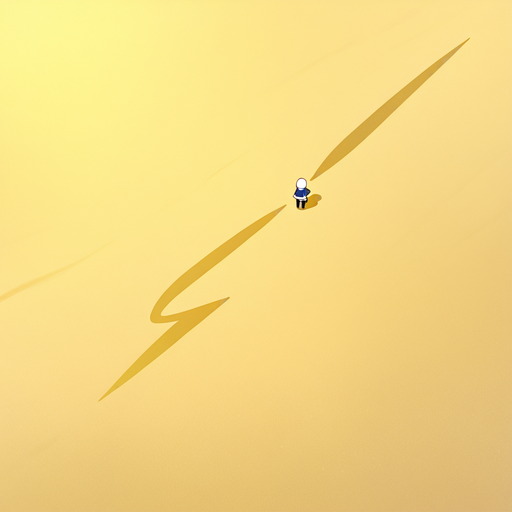
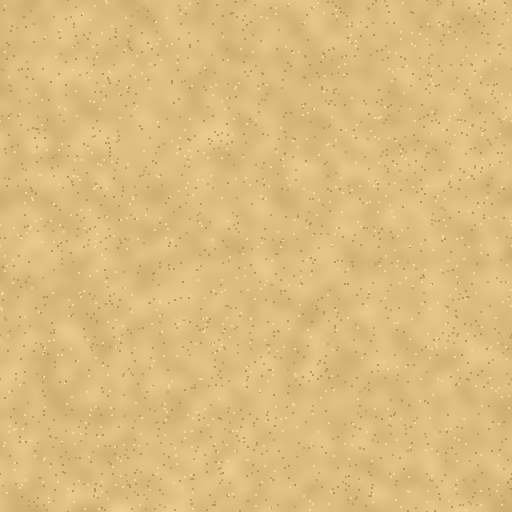
地面タイルを調整（砂地・雪原を差し替え、背景を暗めにしてキャラを見やすく）
Claude-Session: https://claude.ai/code/session_011eHUZaRFqgDPRckgp8vdQr

diff --git a/assets/manifest.js b/assets/manifest.js
@@ -227,35 +227,35 @@ window.ASSET_MANIFEST = {
       "kind": "tile",
       "width": 1024,
       "height": 1024,
-      "prompt": "no humans, top-down view, seamless texture, forest floor grass with small flowers and dirt patches, flat ground, game texture, no objects, no shadow"
+      "prompt": "no humans, no animals, no objects, no characters, top-down view, flat ground texture filling the whole image, seamless texture, forest floor grass with small flowers and dirt patches, flat ground, game texture, no objects, no shadow"
     },
     {
       "key": "tile_snow",
       "kind": "tile",
       "width": 1024,
       "height": 1024,
-      "prompt": "no humans, top-down view, seamless texture, snowy ground with ice patches and footprints, flat ground, game texture, no objects, no shadow"
+      "prompt": "no humans, no animals, no objects, no characters, top-down view, flat ground texture filling the whole image, seamless texture, snowy ground with ice patches and footprints, flat ground, game texture, no objects, no shadow"
     },
     {
       "key": "tile_ruins",
       "kind": "tile",
       "width": 1024,
       "height": 1024,
-      "prompt": "no humans, top-down view, seamless texture, cracked stone pavement of ruined city with moss, flat ground, game texture, no objects, no shadow"
+      "prompt": "no humans, no animals, no objects, no characters, top-down view, flat ground texture filling the whole image, seamless texture, cracked stone pavement of ruined city with moss, flat ground, game texture, no objects, no shadow"
     },
     {
       "key": "tile_desert",
       "kind": "tile",
       "width": 1024,
       "height": 1024,
-      "prompt": "no humans, top-down view, seamless texture, desert sand with small rocks and dry cracks, flat ground, game texture, no objects, no shadow"
+      "prompt": "no humans, no animals, no objects, no characters, top-down view, flat ground texture filling the whole image, seamless texture, desert sand with small rocks and dry cracks, flat ground, game texture, no objects, no shadow"
     },
     {
       "key": "tile_station",
       "kind": "tile",
       "width": 1024,
       "height": 1024,
-      "prompt": "no humans, top-down view, seamless texture, sci-fi metal floor panels with glowing lines, flat ground, game texture, no objects, no shadow"
+      "prompt": "no humans, no animals, no objects, no characters, top-down view, flat ground texture filling the whole image, seamless texture, sci-fi metal floor panels with glowing lines, flat ground, game texture, no objects, no shadow"
     },
     {
       "key": "icon_wand",

diff --git a/js/render.js b/js/render.js
@@ -90,7 +90,8 @@ const Render = {
     // プレイヤーとサポート
     if (R.sup) this.drawChar(c, R.support, R.sup.x, R.sup.y, 46, R.sup.x < p.x ? 1 : -1, 1, R.t);
     const blink = p.invul > 0 && Math.floor(R.t * 20) % 2 === 0;
-    if (!blink) this.drawChar(c, R.char, p.x, p.y, 60, p.face, 1, R.t, p.moving);
+    c.strokeStyle = 'rgba(255,240,160,.7)'; c.lineWidth = 2; c.beginPath(); c.ellipse(p.x, p.y + 26, 22, 8, 0, 0, TAU); c.stroke();
+    if (!blink) this.drawChar(c, R.char, p.x, p.y, 68, p.face, 1, R.t, p.moving);
     // HPバー
     c.fillStyle = 'rgba(0,0,0,.6)'; c.fillRect(p.x - 22, p.y + 26, 44, 6);
     c.fillStyle = p.hp / p.maxHp < 0.3 ? '#ff4f4f' : '#57e389'; c.fillRect(p.x - 22, p.y + 26, 44 * Math.max(0, p.hp / p.maxHp), 6);
@@ -154,6 +155,8 @@ const Render = {
         c.save(); c.translate(ix * S + (fx < 0 ? S : 0), iy * S + (fy < 0 ? S : 0)); c.scale(fx, fy);
         c.drawImage(img, 0, 0, S, S); c.restore();
       }
+      const dim = { station: 0.5, snow: 0.12, forest: 0.12, desert: 0.08, ruins: 0.15 }[R.stage.tile.replace('tile_', '')] || 0;
+      if (dim) { c.fillStyle = `rgba(10,6,20,${dim})`; c.fillRect(p.x - v.w, p.y - v.h, v.w * 2, v.h * 2); }
       if (R.stage.special === 'abyss' || R.stage.special === 'throne') { c.fillStyle = 'rgba(20,0,40,.55)'; c.fillRect(p.x - v.w, p.y - v.h, v.w * 2, v.h * 2); }
     } else {
       // 画像が無い時は模様で
